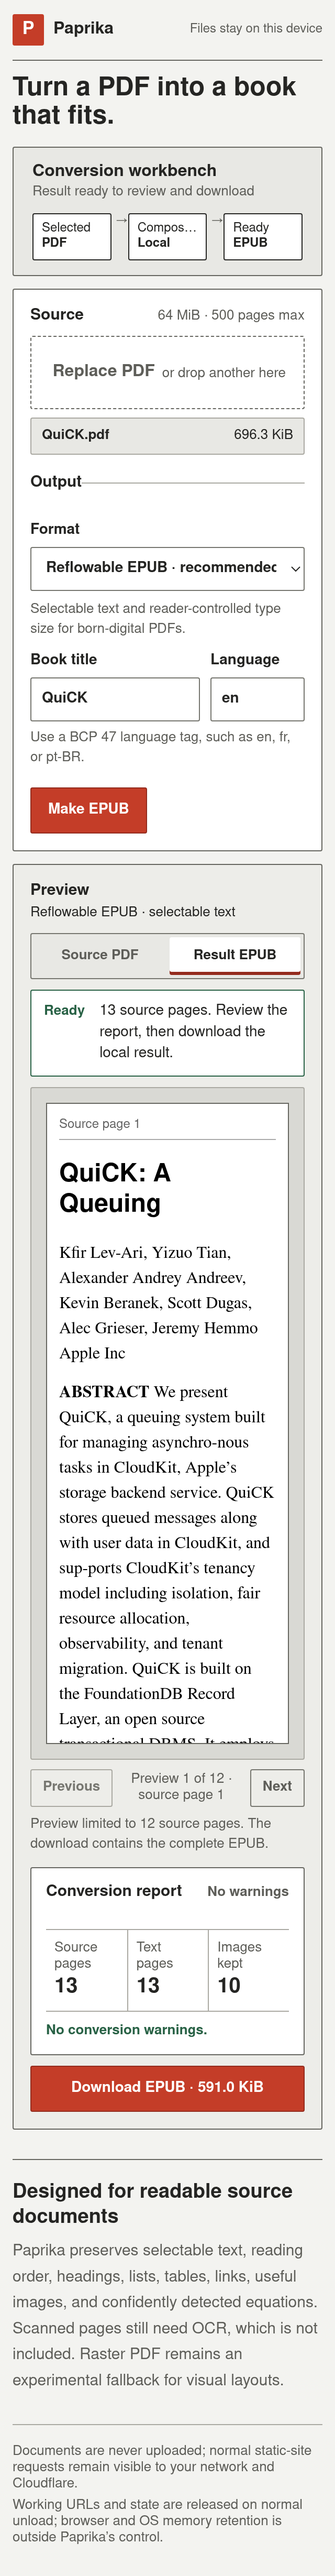
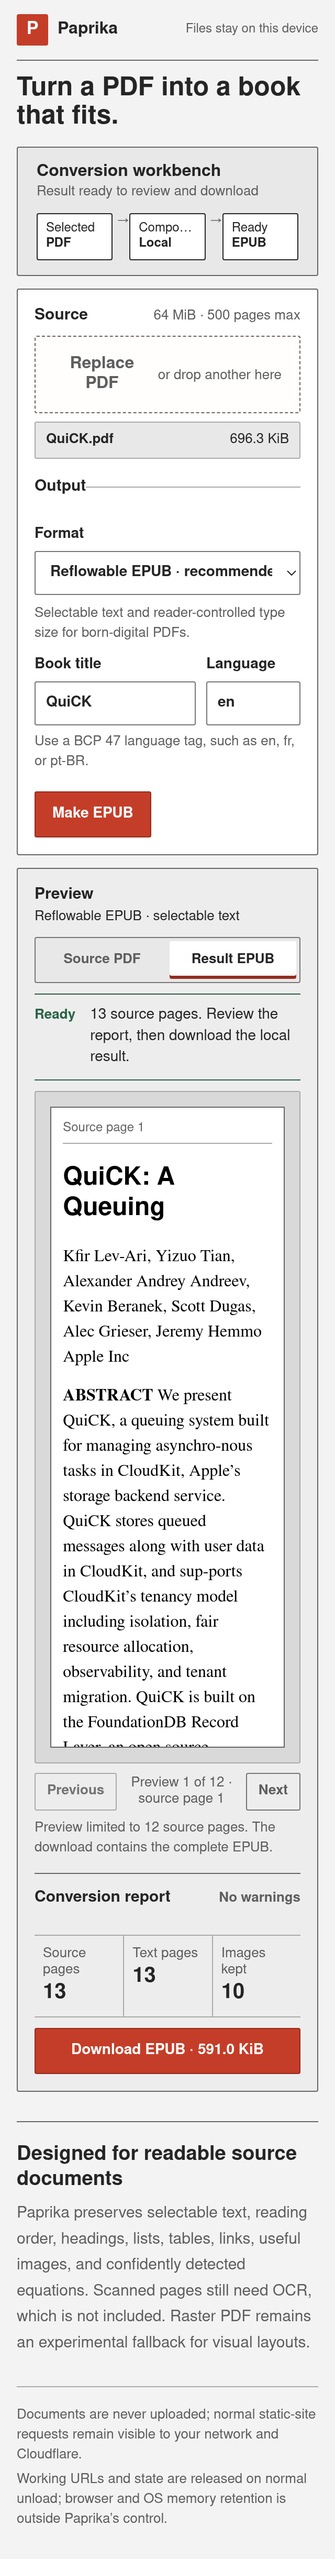
fix: refine result layout and visual rhythm

Changed region(s): [[0.0312, 0.0, 0.9375, 0.9955], [0.9375, 0.0622, 0.9688, 0.84], [0.5625, 0.28, 0.5938, 0.3111]]

diff --git a/web/src/styles.css b/web/src/styles.css
@@ -1,18 +1,21 @@
 :root {
   color-scheme: light;
-  --paper: #f3f3f0;
+  --paper: #f3f3f3;
   --surface: #ffffff;
-  --surface-muted: #e8e8e4;
-  --surface-strong: #d8d8d2;
-  --ink: #252523;
-  --muted: #5e5e59;
-  --border: #aaa9a2;
-  --border-strong: #666660;
-  --control-border: #76766f;
+  --surface-muted: #e8e8e8;
+  --surface-strong: #d8d8d8;
+  --ink: #252525;
+  --muted: #5e5e5e;
+  --border: #aaaaaa;
+  --border-strong: #666666;
+  --control-border: #767676;
   --paprika: #c43d28;
   --paprika-dark: #942b1d;
+  --surface-hover: #fff7f5;
+  --surface-error: #fff4f1;
   --success: #296246;
   --error: #a32d21;
+  --ink-disabled: #737373;
   --radius-control: 2px;
   --radius-panel: 2px;
   font-family: ui-sans-serif, system-ui, -apple-system, BlinkMacSystemFont, "Segoe UI", sans-serif;
@@ -234,7 +237,7 @@ h1 {
 .conversion-route li[data-state="error"] {
   border-color: var(--error);
   color: var(--error);
-  background: #fff4f1;
+  background: var(--surface-error);
 }
 
 .workbench-body {
@@ -252,6 +255,24 @@ h1 {
   grid-template-columns: minmax(290px, 320px) minmax(0, 1fr);
 }
 
+@media (min-width: 901px) {
+  .app-shell[data-has-output="true"] .workbench-body {
+    grid-template-columns: minmax(0, 1fr);
+  }
+
+  .app-shell[data-has-output="true"] .job-panel {
+    grid-template-columns: minmax(250px, 0.75fr) minmax(460px, 1.25fr) auto;
+    align-items: end;
+    gap: 20px;
+  }
+
+  .app-shell[data-has-output="true"] .output-fields {
+    padding: 0 0 0 20px;
+    border-top: 0;
+    border-left: 1px solid var(--border);
+  }
+}
+
 .job-panel,
 .preview-panel {
   min-width: 0;
@@ -267,7 +288,7 @@ h1 {
 }
 
 .preview-panel {
-  background: #edede9;
+  background: #ededed;
 }
 
 .section-heading,
@@ -315,7 +336,7 @@ h1 {
 .drop-zone[data-dragging="true"],
 .drop-zone:focus-within {
   border-color: var(--paprika);
-  background: #fff7f5;
+  background: var(--surface-hover);
 }
 
 .drop-zone:focus-within {
@@ -511,7 +532,7 @@ button:hover,
 
 button:disabled {
   border-color: var(--border);
-  color: #73736e;
+  color: var(--ink-disabled);
   background: var(--surface-strong);
   cursor: not-allowed;
 }
@@ -540,7 +561,7 @@ button:disabled {
 
 .preview-heading output {
   color: var(--ink);
-  background: #edede9;
+  background: #ededed;
   line-height: 1.4;
 }
 
@@ -579,7 +600,7 @@ button:disabled {
 
 .preview-tab:disabled,
 .preview-nav:disabled {
-  color: #777771;
+  color: var(--ink-disabled);
   background: transparent;
 }
 
@@ -590,10 +611,10 @@ button:disabled {
   gap: 8px 14px;
   min-height: 47px;
   margin-bottom: 10px;
-  padding: 10px 12px;
-  border: 1px solid var(--border);
-  border-radius: var(--radius-control);
-  background: var(--surface);
+  padding: 10px 0;
+  border: 0;
+  border-block: 1px solid var(--border);
+  background: transparent;
 }
 
 .status-label {
@@ -620,7 +641,6 @@ button:disabled {
 
 .status[data-state="error"] {
   border-color: var(--error);
-  background: #fff4f1;
 }
 
 .status[data-state="error"] .status-label {
@@ -694,7 +714,7 @@ progress {
   overflow: hidden;
   border: 1px solid var(--border);
   border-radius: var(--radius-control);
-  background: #d9d9d4;
+  background: #d9d9d9;
 }
 
 .sheet-placeholder {
@@ -788,7 +808,7 @@ progress {
   display: inline-block;
   margin-top: 9px;
   color: var(--ink);
-  background: #edede9;
+  background: #ededed;
   font-size: 13px;
 }
 
@@ -800,11 +820,9 @@ progress {
 }
 
 .result-summary {
-  margin-top: 12px;
-  padding: 14px;
-  border: 1px solid var(--border-strong);
-  border-radius: var(--radius-control);
-  background: var(--surface);
+  margin-top: 14px;
+  padding-top: 14px;
+  border-top: 1px solid var(--border-strong);
 }
 
 .result-heading {
@@ -845,15 +863,6 @@ progress {
   margin: 2px 0 0;
   font-size: 20px;
   font-weight: 760;
-}
-
-.warning-groups:empty::after {
-  display: block;
-  padding-top: 11px;
-  color: var(--success);
-  content: "No conversion warnings.";
-  font-size: 13px;
-  font-weight: 650;
 }
 
 .warning-group {
@@ -903,6 +912,7 @@ progress {
 }
 
 .scope p {
+  max-width: 72ch;
   margin-bottom: 0;
   color: var(--muted);
   font-size: 15px;
@@ -915,6 +925,11 @@ footer {
   gap: 20px;
   padding: 18px 0 28px;
   border-top: 1px solid var(--border);
+}
+
+footer > span {
+  max-width: 68ch;
+  line-height: 1.45;
 }
 
 .not-found {
@@ -970,7 +985,7 @@ footer {
   .site-header,
   .app-shell,
   footer {
-    width: min(100% - 24px, 620px);
+    width: min(100% - 32px, 620px);
   }
 
   .site-header p {

diff --git a/scripts/e2e/paprika.spec.ts b/scripts/e2e/paprika.spec.ts
@@ -98,6 +98,12 @@ test("converts and downloads an EPUB with report metadata", async ({ page }) => 
   await expect(page.locator(".status-label")).toHaveText("Ready", { timeout: 120_000 });
   await expect(page.locator("#source-page-count")).toHaveText("1");
   await expect(page.locator("#text-page-count")).toHaveText("1");
+  await expect(page.locator("#warning-count")).toHaveText("No warnings");
+  await expect(page.getByText("No conversion warnings.", { exact: true })).toHaveCount(0);
+  const readyColumns = await page.locator(".workbench-body").evaluate((element) =>
+    getComputedStyle(element).gridTemplateColumns.trim().split(/\s+/).length,
+  );
+  expect(readyColumns).toBe(1);
   await expect(page.locator("#download")).toBeVisible();
   await expect(page.locator("#preview-output")).toBeEnabled();
 

diff --git a/web/src/404.html b/web/src/404.html
@@ -3,7 +3,7 @@
   <head>
     <meta charset="UTF-8" />
     <meta name="viewport" content="width=device-width, initial-scale=1" />
-    <meta name="theme-color" content="#f3f3f0" />
+    <meta name="theme-color" content="#f3f3f3" />
     <link rel="icon" href="/favicon.svg" type="image/svg+xml" />
     <link rel="stylesheet" href="/styles.css" />
     <title>Page not found | Paprika</title>

diff --git a/web/src/index.html b/web/src/index.html
@@ -3,7 +3,7 @@
   <head>
     <meta charset="UTF-8" />
     <meta name="viewport" content="width=device-width, initial-scale=1" />
-    <meta name="theme-color" content="#f3f3f0" />
+    <meta name="theme-color" content="#f3f3f3" />
     <meta
       name="description"
       content="Convert born-digital PDFs to compact, reflowable EPUB books locally in your browser."

diff --git a/crates/paprika-epub/src/lib.rs b/crates/paprika-epub/src/lib.rs
@@ -65,9 +65,12 @@ const FORMULA_HEAVY_MIN_MATH_CHARACTERS: usize = 100;
 const EPUB_CSS: &str = r#"
 :root { color-scheme: light dark; }
 body {
+  box-sizing: border-box;
+  width: 90%;
+  max-width: 72ch;
+  margin: 5% auto;
   font-family: serif;
   line-height: 1.5;
-  margin: 5%;
   orphans: 2;
   widows: 2;
 }

diff --git a/docs/audit-validation.md b/docs/audit-validation.md
@@ -1,6 +1,6 @@
 # Reliability and redesign audit
 
-This document records the acceptance evidence for the reliability and interface audit implemented on `feat/reliability-redesign`. Product-code validation was completed at `c77ef254485d0c37d8f1e6fd8cb30af490d1eba6`; this document and its screenshots do not change the deployed application.
+This document records the acceptance evidence for the reliability and interface audit implemented on `feat/reliability-redesign`. The branch remains separate from `main`; this document and its screenshots do not describe a production deployment.
 
 ## Defect-to-test traceability
 
@@ -42,7 +42,7 @@ bun run predeploy
   wrangler deploy --dry-run: passed
 ```
 
-GitHub Actions run [33279349031](https://github.com/angristan/paprika/actions/runs/33279349031) passed the locked build job and native tests on Ubuntu 24.04, macOS 14, and Windows 2022. Its browser step passed all 39 tests across Chromium, Firefox, and WebKit. Each engine ran the axe WCAG A/AA audit, local-only request check, 320 CSS-pixel layout check, 200% zoom check, EPUB conversion/download, warning, cancellation/retry, raster preview, and diagnostic-recovery cases.
+The [feature-branch workflow history](https://github.com/angristan/paprika/actions/workflows/pre-deploy.yml?query=branch%3Afeat%2Freliability-redesign) records the locked build job and native tests on Ubuntu 24.04, macOS 14, and Windows 2022. Its browser step runs 39 tests across Chromium, Firefox, and WebKit. Each engine runs the axe WCAG A/AA audit, local-only request check, 320 CSS-pixel layout check, 200% zoom check, EPUB conversion/download, warning, cancellation/retry, raster preview, and diagnostic-recovery cases.
 
 `main` branch protection requires these four exact checks with strict status checks and administrator enforcement:
 
@@ -56,13 +56,13 @@ GitHub Actions run [33279349031](https://github.com/angristan/paprika/actions/ru
 Two consecutive executions of `scripts/build-web-cloudflare.sh` produced the same aggregate SHA-256 over every file in `web/dist/`:
 
 ```text
[2 lines of base64/hex data omitted]
 ```
 
 The first execution populated the cache. The second finished without Rust compilation and restored verified WASM cache entry:
 
 ```text
[2 lines of base64/hex data omitted]
 ```
 
 The build scripts verify pinned SHA-256 values before executing or consuming downloaded rustup-init, wasm-pack archive/binary, EPUBCheck archive/JAR, and the QuiCK regression fixture. Cached WASM files have their own `SHA256SUMS`, and the cache key covers the pinned compiler, wasm-pack version, optimization mode, Rust flags, lockfile, manifests, Rust sources, and build script.
@@ -81,7 +81,7 @@ The first viewport has one clear conversion task, a compact source-to-result rou
 
 ![Desktop completed EPUB](screenshots/desktop-result.png)
 
-The result keeps the source controls available, identifies the active preview, shows selectable book content, discloses preview truncation, reports source/text/image counts, presents warnings before download, and gives the download one clear visual priority.
+The completed state condenses source and output controls into one composition bar above the result instead of leaving a long empty side column. It identifies the active preview, bounds prose to a readable measure, discloses preview truncation, reports source/text/image counts, presents one warning summary before download, and gives the download one clear visual priority.
 
 ### Mobile, 320 CSS pixels
 
@@ -96,6 +96,19 @@ The workflow becomes one column without horizontal scrolling. Controls retain vi
 At 200% zoom the same task order remains usable without horizontal document overflow. Controls, preview, report, download, limitations, and privacy stay reachable. Text wraps or truncates only inside explicitly bounded compact route/control labels.
 
 The automated axe scan found no WCAG 2 A/AA or WCAG 2.1 A/AA violations in Chromium, Firefox, or WebKit. The CSS also provides visible `:focus-visible` treatment, at least 44-pixel primary control targets, semantic native controls, live status regions, and a reduced-motion override.
+
+### Impeccable catalogue pass
+
+The rendered states were re-audited against the complete [Impeccable slop catalogue](https://impeccable.style/slop/#catalog). The remediation:
+
+- replaces stacked status/report cards with rules inside one preview region;
+- condenses the completed desktop form above the result, eliminating the empty source column;
+- removes duplicate no-warning copy;
+- limits UI and EPUB prose measure and gives footer text explicit leading;
+- uses a strictly neutral surface scale and 16-pixel narrow-screen gutters; and
+- documents every application font, color, radius, and type-size role in `DESIGN.md`.
+
+Two apparent catalogue matches are intentional and semantic: Paprika red marks only current/selected states, and the empty PDF → EPUB sheet diagram explains the conversion rather than decorating empty space. The serif text inside the preview belongs to the generated EPUB, not the application type system.
 
 ## Documentation review
 

diff --git a/DESIGN.md b/DESIGN.md
@@ -25,13 +25,14 @@ The initial viewport must not be padded to fill the screen. Content height follo
 
 ## Visual system
 
-- **Color:** neutral white surfaces and graphite text. Paprika red is reserved for the primary action, focus, and meaningful state emphasis. Do not use cream, beige, parchment, sepia, or warm-paper palettes.
-- **Type:** use the operating system UI stack for interface and editorial text. Use monospace only for real machine values such as byte counts, dimensions, job identifiers, and technical status. Do not use or imitate Inter. Do not use crushed letter spacing.
-- **Scale:** use a moderate heading scale. The page title must read as a task heading, not an oversized hero statement.
+- **Color:** use the neutral scale `#ffffff`, `#f3f3f3`, `#ededed`, `#e8e8e8`, `#d9d9d9`, `#d8d8d8`, `#aaaaaa`, `#767676`, `#737373`, `#666666`, `#5e5e5e`, and `#252525`. Paprika action/state colors are `#c43d28` and `#942b1d`; success is `#296246` and error is `#a32d21`. Pale `#fff7f5` and `#fff4f1` surfaces are reserved for interactive hover and error feedback. Do not use cream, beige, parchment, sepia, or warm-paper palettes.
+- **Type:** use the operating system UI stack for application chrome and explanatory copy. Use monospace only for real machine values such as byte counts, dimensions, job identifiers, and technical status. The generated EPUB preview is document content rather than application chrome and may use the reader-oriented serif/sans-serif styles packaged with the book. Do not use or imitate Inter. Do not use crushed letter spacing.
+- **Scale:** core UI text uses 13, 14, 15, 16, 19, and 20 px steps. Twelve pixels is reserved for compact route/header text at narrow effective widths; 17 and 18 px are limited to the mark and compact result values. Task headings use 25 or 30 px at narrow widths and a responsive 30–48 px range on wide screens. The page title must read as a task heading, not an oversized hero statement.
 - **Shape:** controls and surfaces are square or use at most a 2 px radius. Shape must communicate grouping or affordance, not decoration.
-- **Depth:** use borders, spacing, and background contrast. Do not use decorative shadows, floating cards, glass effects, or the common hairline-border plus wide-shadow card treatment.
+- **Depth:** use borders, spacing, and neutral background contrast. Keep one outer boundary per task region; inner status and report sections use rules rather than nested cards. Do not use decorative shadows, floating cards, glass effects, or the common hairline-border plus wide-shadow card treatment.
 - **Spacing:** use tighter spacing inside controls and groups, and larger spacing only between task phases. Avoid monotonous spacing and avoid stretching sections to occupy the first viewport.
 - **Motion:** only use motion to show real progress or state change. Respect reduced-motion preferences.
+- **Signature:** the compact PDF → local composition → EPUB route and empty-preview sheet transformation explain the real workflow. They are functional diagrams, not decorative shape art. Paprika red borders and underlines indicate the current step or selected preview only.
 
 ## Explicit anti-patterns
 
